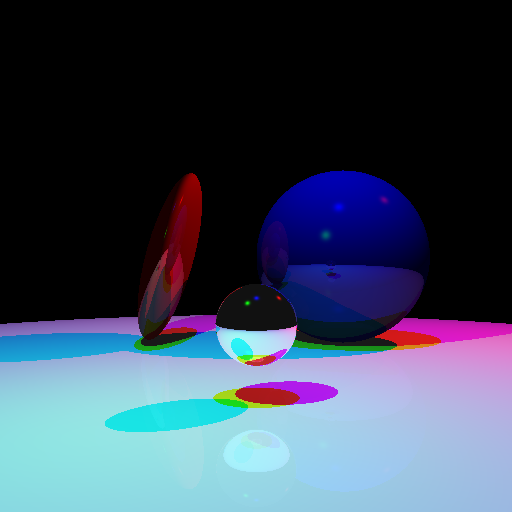
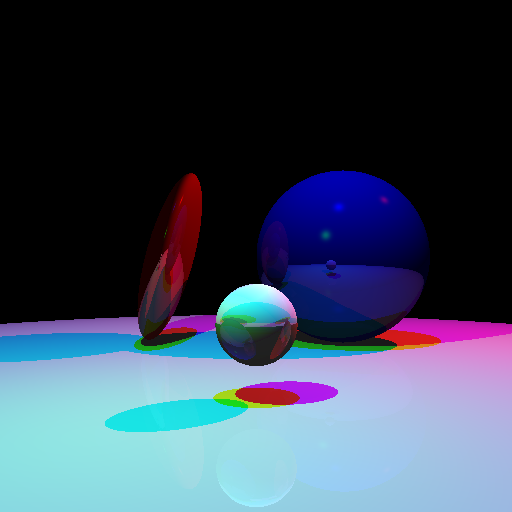
Support for tracing refracted light

Changed region(s): [[0.4062, 0.5312, 0.5938, 0.7188], [0.4688, 0.9688, 0.5312, 1.0], [0.625, 0.5, 0.6562, 0.5312]]

diff --git a/src/main.rs b/src/main.rs
@@ -31,23 +31,23 @@ fn main() {
     let mut buffer = RenderBuffer::new(x_res, y_res);
 
     let mut scene = Scene::new();
-    let mut sph = Sphere::new(Color::red(), 0.5);
+    let mut sph = Sphere::new(Color::red(), 0.5, 0.);
     let transform =
         Matrix::translate(-1.0, 0., 0.) * Matrix::rotate_z(75.) * Matrix::scale(1.0, 0.25, 1.0);
     sph.set_transform(&transform);
     scene.add_shape(Box::new(sph));
 
-    let mut sph2 = Sphere::new(Color::blue(), 0.4);
+    let mut sph2 = Sphere::new(Color::blue(), 0.4, 0.);
     let transform = Matrix::translate(1., 0., 0.);
     sph2.set_transform(&transform);
     scene.add_shape(Box::new(sph2));
 
-    let mut sph3 = Sphere::new(Color::white(), 0.2);
+    let mut sph3 = Sphere::new(Color::white(), 0.2, 0.);
     let transform = Matrix::translate(0., -2., 0.) * Matrix::scale(10., 1., 10.);
     sph3.set_transform(&transform);
     scene.add_shape(Box::new(sph3));
 
-    let mut sph4 = Sphere::new(0.7 * Color::white(), 1.);
+    let mut sph4 = Sphere::new(0.7 * Color::white(), 0.02, 1.333);
     let transform = Matrix::translate(0., -0.5, -3.) * Matrix::scale(0.3, 0.3, 0.3);
     sph4.set_transform(&transform);
     scene.add_shape(Box::new(sph4));
@@ -106,8 +106,23 @@ fn trace_ray(scene: &Scene, ray: &Ray, reflections: usize) -> Color {
                 Color::black()
             };
 
+            let refracted = if i.material.refraction_index > EPSILON && reflections > 0 {
+                let (idx0, idx1) = if i.entering {
+                    (1., i.material.refraction_index)
+                } else {
+                    (i.material.refraction_index, 1.)
+                };
+                let refract_ray = refract_ray(ray, &i, idx0, idx1);
+                (1.-i.material.reflectivity)
+                    * i.material.color
+                    * refract_ray
+                        .map(|r| trace_ray(scene, &r, reflections - 1))
+                        .unwrap_or(Color::black())
+            } else {
+                Color::black()
+            };
 
-            lights + reflected + ambient
+            ambient + lights + reflected + refracted
         }
     }
 }
@@ -117,6 +132,21 @@ fn reflect_ray(ray: &Ray, i: &Intersection) -> Ray {
     let reflected_dir = -ray.direction().reflect(&i.normal).norm();
     let p = i.point + 0.0002 * reflected_dir;
     Ray::new(&p, &reflected_dir)
+}
+
+fn refract_ray(ray: &Ray, i: &Intersection, idx0: f32, idx1: f32) -> Option<Ray> {
+    let ratio = idx0 / idx1;
+    let m_dot_r = -ray.direction().dot(&i.normal);
+    let cos_theta_sqrd = 1. - ratio * ratio * (1. - m_dot_r * m_dot_r);
+
+    if cos_theta_sqrd > 0. {
+        let cos_theta = cos_theta_sqrd.sqrt();
+        let refract_dir = ray.direction() * ratio + i.normal * (ratio * m_dot_r - cos_theta);
+        let p = i.point + 0.0002 * refract_dir;
+        Some(Ray::new(&p, &refract_dir))
+    } else {
+        None
+    }
 }
 
 fn calculate_light_illumination(
@@ -223,7 +253,7 @@ mod benchmarks {
         let mut buffer = RenderBuffer::new(x_res, y_res);
 
         let mut scene = Scene::new();
-        let mut sph = Sphere::new(Color::red(), 1.);
+        let mut sph = Sphere::new(Color::red(), 1., 0.);
         let transform = Matrix::scale(1.0, 2.25, 1.0);
         sph.set_transform(&transform);
 

diff --git a/src/scene/sphere.rs b/src/scene/sphere.rs
@@ -13,12 +13,12 @@ pub struct Sphere {
 }
 
 impl Sphere {
-    pub fn new(color: Color, reflectivity: f32) -> Sphere {
+    pub fn new(color: Color, reflectivity: f32, refraction_idx: f32) -> Sphere {
         Sphere {
             transform: Matrix::identity(),
             inv_transform: Matrix::identity(),
             color: color,
-            material: Material::new(&color, reflectivity, 0.),
+            material: Material::new(&color, reflectivity, refraction_idx),
         }
     }
 }
@@ -46,11 +46,12 @@ impl Renderable for Sphere {
                 }
 
                 let t = if t0 < 0. { t1 } else { t0 };
+                let entering = t0 > 0.;
                 let point = t * ray;
                 let normal = t * transformed_ray;
-                let normal = (self.inv_transform.transpose() * Vector3::from(normal)).norm();
+                let mut normal = (self.inv_transform.transpose() * Vector3::from(normal)).norm();
+                if !entering {normal = -normal;}
                 let eye_dir = -ray.direction().norm();
-                let entering = t0 > 0.;
                 Some(Intersection {
                     t,
                     material: self.material,
@@ -101,7 +102,7 @@ mod tests {
 
     #[test]
     fn basic() {
-        let mut sph = Sphere::new(Color::red(), 1.);
+        let mut sph = Sphere::new(Color::red(), 1., 0.);
 
         assert_eq!(
             Matrix::identity(),
@@ -119,7 +120,7 @@ mod tests {
 
     #[test]
     fn intersection_no_transform() {
-        let sph = Sphere::new(Color::white(), 1.);
+        let sph = Sphere::new(Color::white(), 1., 0.);
         let ray = Ray::new(&Point3::new(0., 0., 2.), &Vector3::new(0., 0., -1.));
         let intersect = sph.intersect(&ray);
         assert_ne!(None, intersect);
@@ -137,7 +138,7 @@ mod tests {
 
     #[test]
     fn intersection_transform() {
-        let mut sph = Sphere::new(Color::white(), 1.);
+        let mut sph = Sphere::new(Color::white(), 1., 0.);
         let transform = Matrix::translate(0., 2., -2.) * Matrix::scale(2., 2., 2.);
         sph.set_transform(&transform);
 
@@ -165,7 +166,7 @@ mod benchmarks {
 
     #[bench]
     fn intersection(b: &mut test::Bencher) {
-        let sph = Sphere::new(Color::white(), 1.);
+        let sph = Sphere::new(Color::white(), 1., 0.);
         let ray = Ray::new(&Point3::new(0., 0., 2.), &Vector3::new(0., 0., -1.));
 
         b.iter(|| sph.intersect(&ray));
